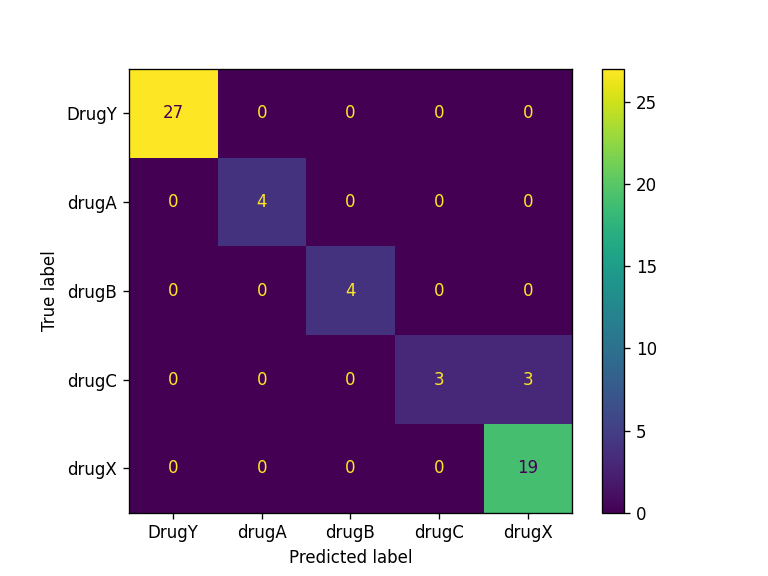
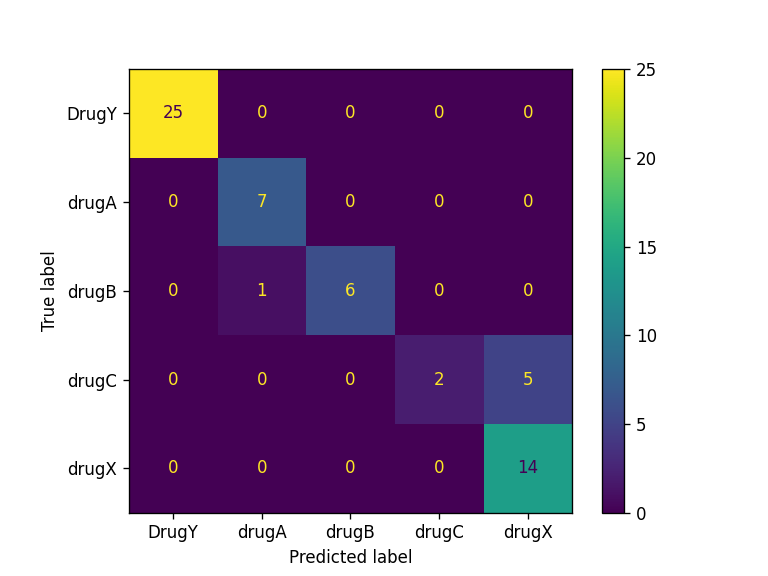
Update with new results

diff --git a/train.py b/train.py
@@ -29,9 +29,8 @@ X_train, X_test, y_train, y_test = train_test_split(
 # print (y_test)
 
 
-
-cat_col = [1,2,3]
-num_col = [0,4]
+cat_col = [1, 2, 3]
+num_col = [0, 4]
 
 transform = ColumnTransformer(
     [
@@ -49,7 +48,6 @@ pipe = Pipeline(
 pipe.fit(X_train, y_train)
 
 
-
 predictions = pipe.predict(X_test)
 accuracy = accuracy_score(y_test, predictions)
 f1 = f1_score(y_test, predictions, average="macro")
@@ -58,7 +56,6 @@ print("Accuracy:", str(round(accuracy, 2) * 100) + "%", "F1:", round(f1, 2))
 
 with open("Results/metrics.txt", "w") as outfile:
     outfile.write(f"\nAccuracy = {round(accuracy, 2)}, F1 Score = {round(f1,2)}.")
-   
 
 
 cm = confusion_matrix(y_test, predictions, labels=pipe.classes_)
@@ -72,7 +69,7 @@ sio.dump(pipe, "Model/drug_pipeline.skops")
 # sio.load("Model/drug_pipeline.skops", trusted="True")
 
 unknown_types = sio.get_untrusted_types(file="Model/drug_pipeline.skops")
-print(unknown_types) 
+print(unknown_types)
 
 # 2. Only load if you trust these types
 loaded_model = sio.load("Model/drug_pipeline.skops", trusted=unknown_types)